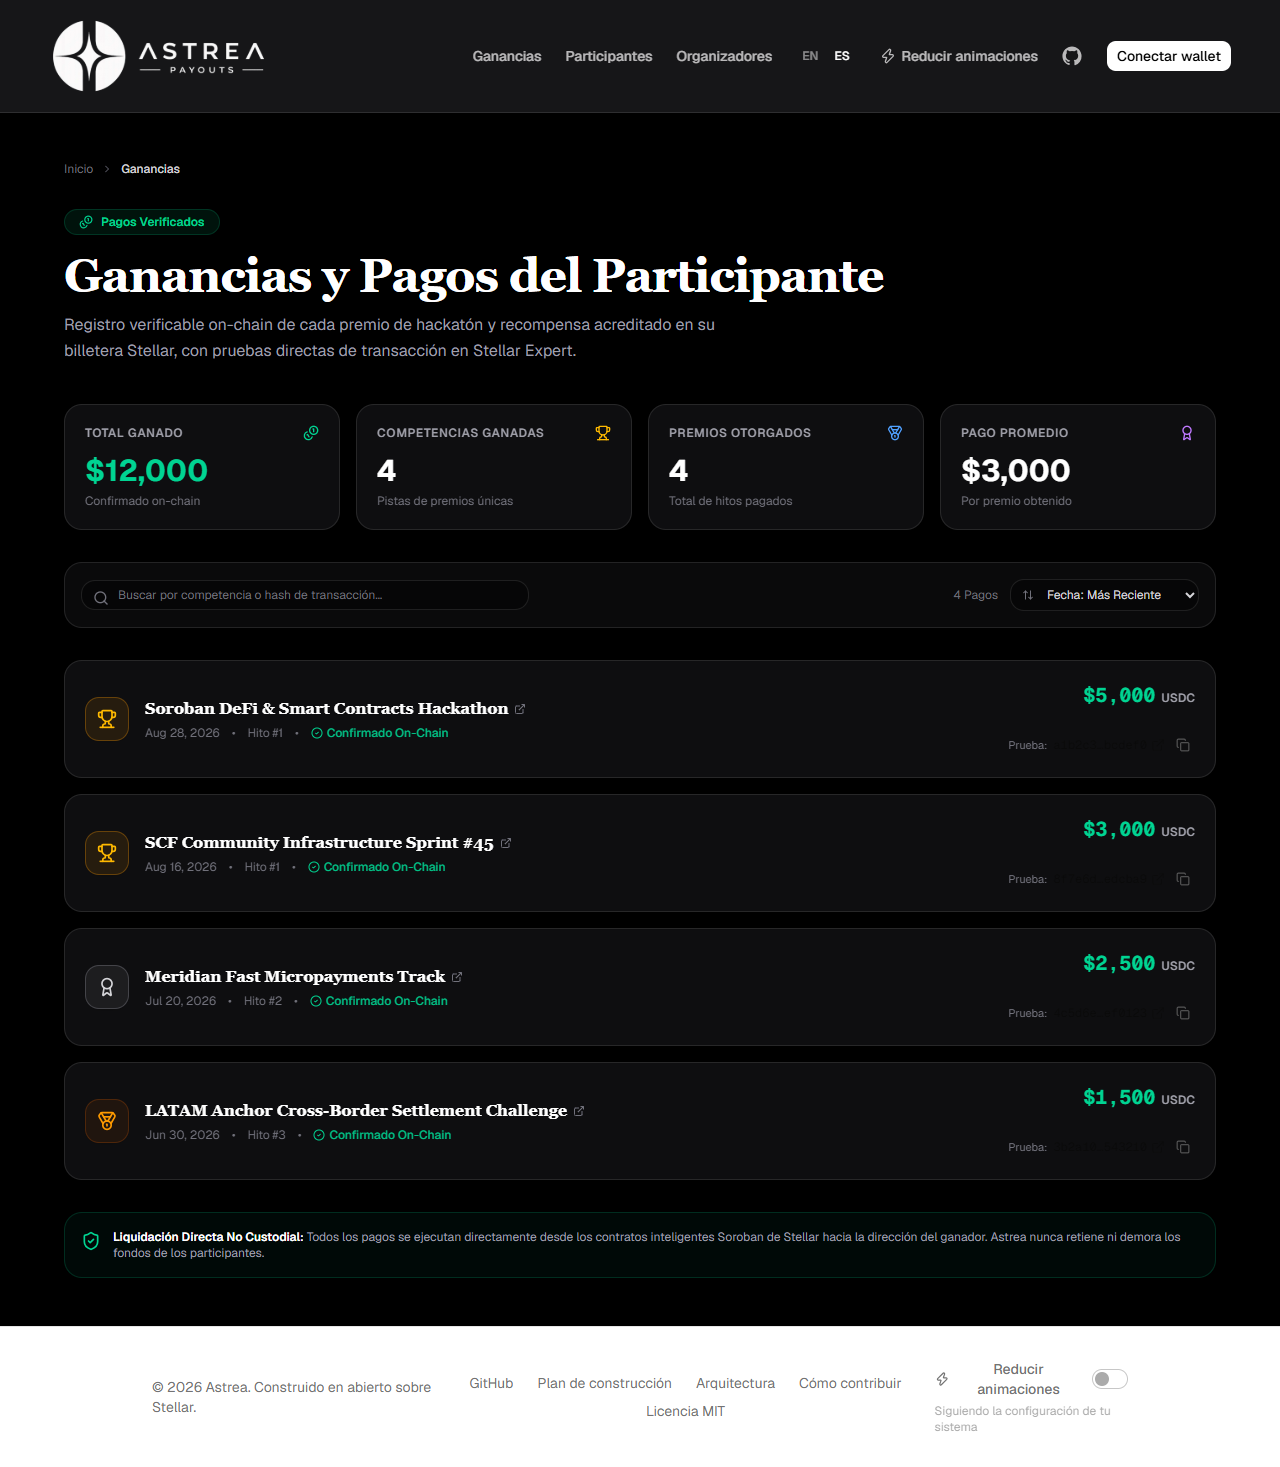
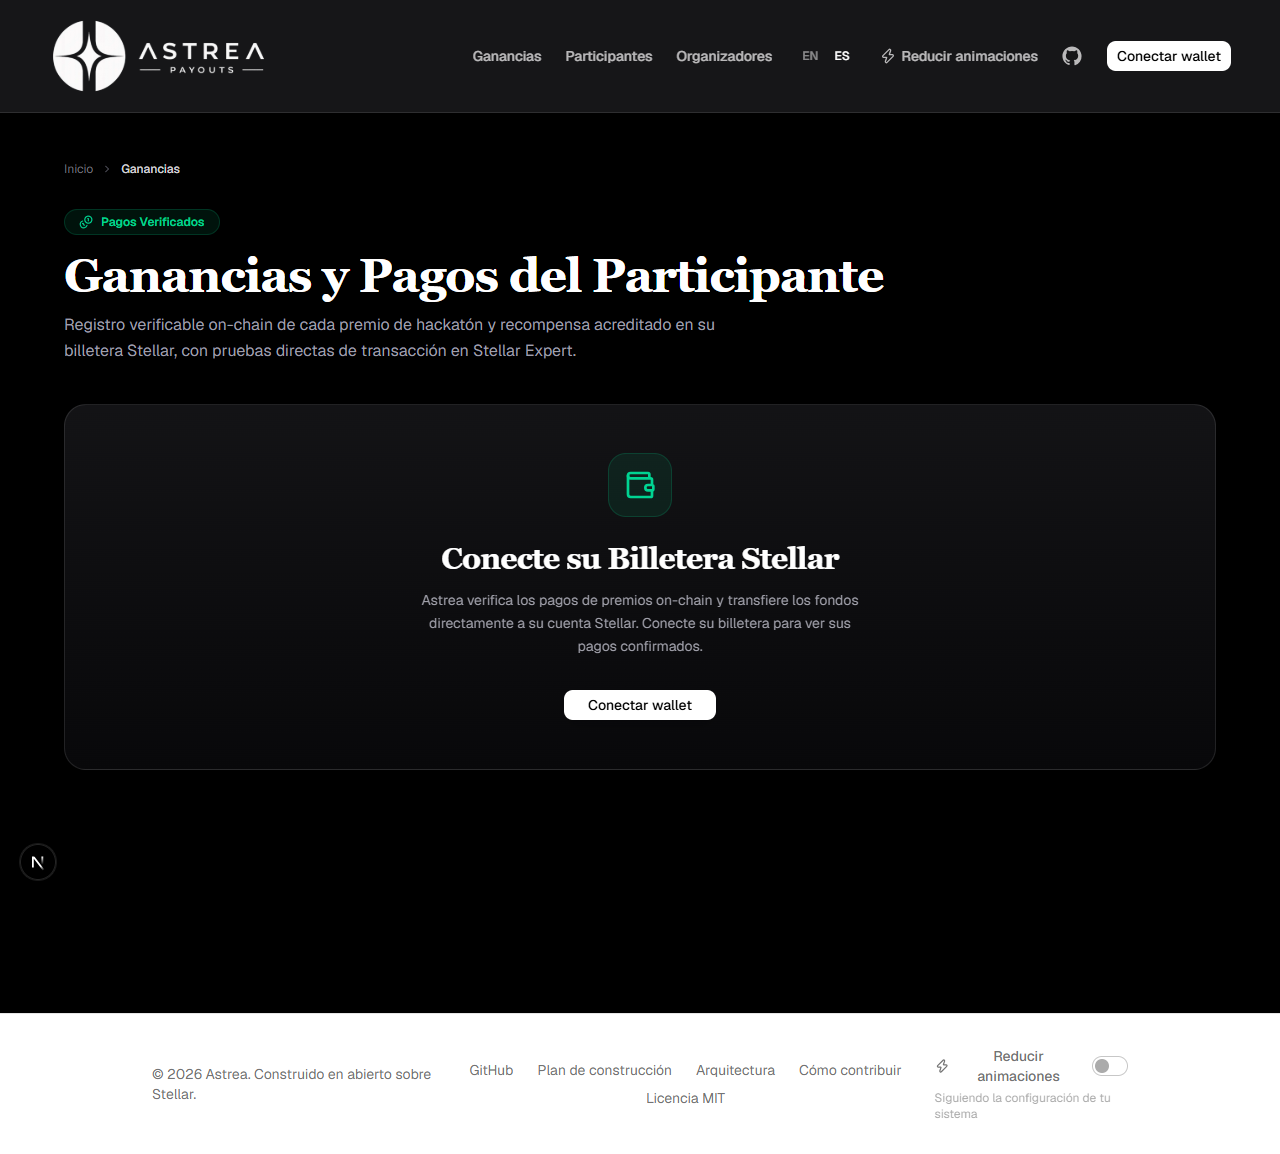
fix(web): remove fallback sample data and add mobile breadcrumb clearance (U13) (#30)

diff --git a/apps/web/src/lib/earnings/query.ts b/apps/web/src/lib/earnings/query.ts
@@ -62,14 +62,15 @@ export function getSampleEarnings(_walletAddress: string): EarningsItem[] {
 }
 
 /**
- * Queries confirmed payout rows joined on the verified participant's wallet address.
- * Strictly scoped to the specified wallet to eliminate cross-user data leakage.
+ * Queries confirmed payout rows for the verified participant's wallet.
+ * Filtered by Prize.winnerWalletId to guarantee wallet-scoped privacy.
+ * Returns an empty array if unauthenticated, database unavailable, or no payouts exist.
  */
 export async function getParticipantEarnings(
-	walletAddress: string,
+	walletIdOrAddress?: string | null,
 ): Promise<EarningsItem[]> {
-	if (!walletAddress || !process.env.DATABASE_URL) {
-		return getSampleEarnings(walletAddress);
+	if (!walletIdOrAddress || !process.env.DATABASE_URL) {
+		return [];
 	}
 
 	try {
@@ -78,9 +79,10 @@ export async function getParticipantEarnings(
 		const payouts = await db.payout.findMany({
 			where: {
 				prize: {
-					winnerWallet: {
-						address: walletAddress,
-					},
+					OR: [
+						{ winnerWalletId: walletIdOrAddress },
+						{ winnerWallet: { address: walletIdOrAddress } },
+					],
 				},
 			},
 			include: {
@@ -95,8 +97,8 @@ export async function getParticipantEarnings(
 			},
 		});
 
-		if (payouts.length === 0) {
-			return getSampleEarnings(walletAddress);
+		if (!payouts || payouts.length === 0) {
+			return [];
 		}
 
 		return payouts.map((p) => {
@@ -119,7 +121,10 @@ export async function getParticipantEarnings(
 			};
 		});
 	} catch (err) {
-		console.warn("Prisma query failed, serving seeded earnings data:", err);
-		return getSampleEarnings(walletAddress);
+		console.warn(
+			"Failed to query participant earnings, returning empty array:",
+			err,
+		);
+		return [];
 	}
 }

diff --git a/apps/web/src/lib/earnings/earnings.test.ts b/apps/web/src/lib/earnings/earnings.test.ts
@@ -1,5 +1,5 @@
 import { describe, expect, it } from "vitest";
-import { getSampleEarnings } from "./query";
+import { getParticipantEarnings, getSampleEarnings } from "./query";
 import {
 	calculateEarningsSummary,
 	filterAndSortEarnings,
@@ -96,12 +96,22 @@ describe("formatPayoutDate", () => {
 	});
 });
 
-describe("getSampleEarnings data integrity", () => {
-	it("provides valid 64-character hex transaction hashes for every payout", () => {
-		const items = getSampleEarnings("GBXYZ");
-		for (const item of items) {
-			expect(item.txHash).toHaveLength(64);
-			expect(/^[0-9a-fA-F]{64}$/.test(item.txHash)).toBe(true);
-		}
+describe("getParticipantEarnings", () => {
+	it("returns an empty array when wallet is undefined or null", async () => {
+		const resultNull = await getParticipantEarnings(null);
+		const resultUndefined = await getParticipantEarnings(undefined);
+
+		expect(resultNull).toEqual([]);
+		expect(resultUndefined).toEqual([]);
+	});
+
+	it("returns an empty array when database is unconfigured", async () => {
+		const prevEnv = process.env.DATABASE_URL;
+		delete process.env.DATABASE_URL;
+
+		const result = await getParticipantEarnings("wallet-123");
+		expect(result).toEqual([]);
+
+		if (prevEnv) process.env.DATABASE_URL = prevEnv;
 	});
 });

diff --git a/apps/web/src/app/[locale]/earnings/page.tsx b/apps/web/src/app/[locale]/earnings/page.tsx
@@ -25,15 +25,14 @@ export async function generateMetadata({
 export default async function EarningsPage() {
 	const t = await getTranslations("Earnings");
 	const sessionWallet = await getSessionWallet();
-	const walletAddress =
-		sessionWallet?.address ??
-		"GBBD47IF6LWK7P7MDEVSCWR7DPUWV3NY3DTQEVFL4NAT4AQH3ZLLFLA5";
+	const walletId = sessionWallet?.id ?? null;
+	const walletAddress = sessionWallet?.address ?? null;
 
-	// Fetch confirmed on-chain payouts for this wallet
-	const earnings = await getParticipantEarnings(walletAddress);
+	// Fetch confirmed on-chain payouts for this verified wallet (empty array if no active session)
+	const earnings = walletId ? await getParticipantEarnings(walletId) : [];
 
 	return (
-		<main className="min-h-screen bg-black text-white py-12 px-6 md:px-12">
+		<main className="min-h-screen bg-black text-white pt-28 pb-16 px-6 md:py-12 md:px-12">
 			<div className="mx-auto max-w-6xl">
 				{/* Breadcrumb Navigation */}
 				<nav
